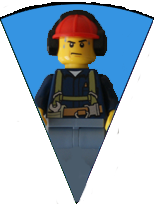
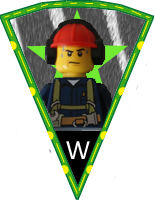
Better segment images, global imageDirection
Created new/better? image for one image per segment tutorial and also
made the imageDirection property global for the whole wheel.

diff --git a/Winwheel.js b/Winwheel.js
@@ -57,7 +57,8 @@ function Winwheel(options, drawWheel)
         'imageOverlay'      : false,        // If set to true in image drawing mode the outline of the segments will be displayed over the image. Does nothing in code drawMode.
         'drawText'          : true,         // By default the text of the segments is rendered in code drawMode and not in image drawMode.
         'pointerAngle'      : 0,            // Location of the pointer that indicates the prize when wheel has stopped. Default is 0 so the (corrected) 12 o'clock position.
-        'wheelImage'        : null          // Must be set to image data in order to use image to draw the wheel - drawMode must also be 'image'.
+        'wheelImage'        : null,         // Must be set to image data in order to use image to draw the wheel - drawMode must also be 'image'.
+        'imageDirection'    : 'N'           // Used when drawMode is segmentImage. Default is north, can also be (E)ast, (S)outh, (W)est.
     };
     
     // -----------------------------------------
@@ -493,8 +494,14 @@ Winwheel.prototype.drawSegmentImages = function()
                     var imageLeft = 0;
                     var imageTop = 0;
                     var imageAngle = 0;
+                    var imageDirection = '';
                     
-                    if (seg.imageDirection == 'S')
+                    if (seg.imageDirection !== null)
+                        imageDirection = seg.imageDirection;
+                    else 
+                        imageDirection = this.imageDirection;
+                    
+                    if (imageDirection == 'S')
                     {
                         // Left set so image sits half/half over the 180 degrees point.
                         imageLeft = (this.centerX - (seg.imgData.width / 2));
@@ -506,7 +513,7 @@ Winwheel.prototype.drawSegmentImages = function()
                         // Here we add 180 to the angle to the segment is poistioned correctly.
                         imageAngle = (seg.startAngle + 180 + ((seg.endAngle - seg.startAngle) / 2));
                     }
-                    else if (seg.imageDirection == 'E')
+                    else if (imageDirection == 'E')
                     {
                         // Left set so image starts and the center point.
                         imageLeft = this.centerX;
@@ -518,7 +525,7 @@ Winwheel.prototype.drawSegmentImages = function()
                         // this time we need to add 270 to that to the segment is rendered the correct place.
                         imageAngle = (seg.startAngle + 270 + ((seg.endAngle - seg.startAngle) / 2));
                     }
-                    else if (seg.imageDirection == 'W')
+                    else if (imageDirection == 'W')
                     {
                         // Left is the centerX minus the width of the image.
                         imageLeft = (this.centerX - seg.imgData.width);
@@ -1984,7 +1991,7 @@ function Segment(options)
         'textStrokeStyle'   : null,
         'textLineWidth'     : null,
         'image'             : null, // Name/path to the image
-        'imageDirection'    : 'N',  // The direction the image is facing. Can be North, South, East, West.
+        'imageDirection'    : null, // Direction of the image, can be set globally for the whole wheel.
         'imgData'           : null  // Image object created here and loaded with image data.
     };
 
@@ -2031,11 +2038,6 @@ Segment.prototype.changeImage = function(image, imageDirection)
     if (imageDirection)
     {
         this.imageDirection = imageDirection;
-    }
-    else
-    {
-        // North is the default.
-        this.imageDirection = 'N';
     }
     
     // Set imgData to a new image object, change set callback and change src (just like in wheel constructor).

diff --git a/examples/one_image_per_segment/index.html b/examples/one_image_per_segment/index.html
@@ -35,7 +35,7 @@
         <div align="center">
             <h1>Winwheel.js example wheel - one image per segment</h1>
             <br />
-            <p>Here is an example of a wheel created using one image per segment.</p>
+            <p>Here is an example of a wheel created using one image per segment, also includes code drawn text.</p>
             <br />
             <p>Choose a power setting then press the Spin button.</p>
             <br />
@@ -75,13 +75,19 @@
         <script>        
             // Create new wheel object specifying the parameters at creation time.
             var theWheel = new Winwheel({
-                'numSegments'  : 8,                 // Specify number of segments.
-                'outerRadius'  : 200,               // Set outer radius so wheel fits inside the background.
-                'textFontSize' : 28,                // Set font size as desired.
-                'imageOverlay' : true,              // Not required but in this case it made the segment lines look tidier.
-                'strokeStyle'  : '#eeeeee',         // Can be any valid HTML colour.
-                'drawMode'     : 'segmentImage',    // Must be segmentImage to draw wheel using one image per segemnt.
-                'segments'     :                    // Define segments including image and text.
+                'numSegments'       : 8,                 // Specify number of segments.
+                'outerRadius'       : 200,               // Set outer radius so wheel fits inside the background.
+                'drawText'          : true,              // Code drawn text can be used with segment images.
+                'textFontSize'      : 16,
+                'textOrientation'   : 'curved',
+                'textAlignment'     : 'inner',
+                'textMargin'        : '90',
+                'textFontFamily'    : 'monospace',
+                'textStrokeStyle'   : 'black',
+                'textLineWidth'     : 3,
+                'textFillStyle'     : 'white',
+                'drawMode'          : 'segmentImage',    // Must be segmentImage to draw wheel using one image per segemnt.
+                'segments'          :                    // Define segments including image and text.
                 [
                    {'image' : 'jane.png',  'text' : 'Jane'},
                    {'image' : 'tom.png',   'text' : 'Tom'},
